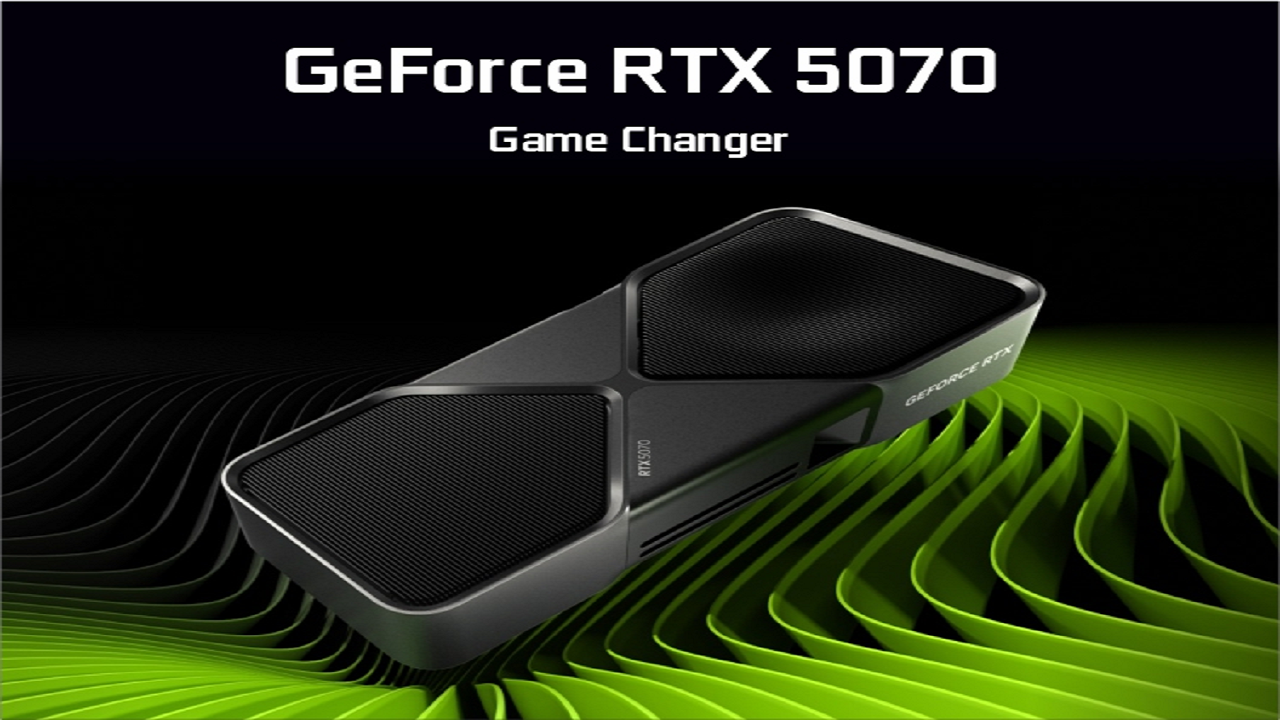
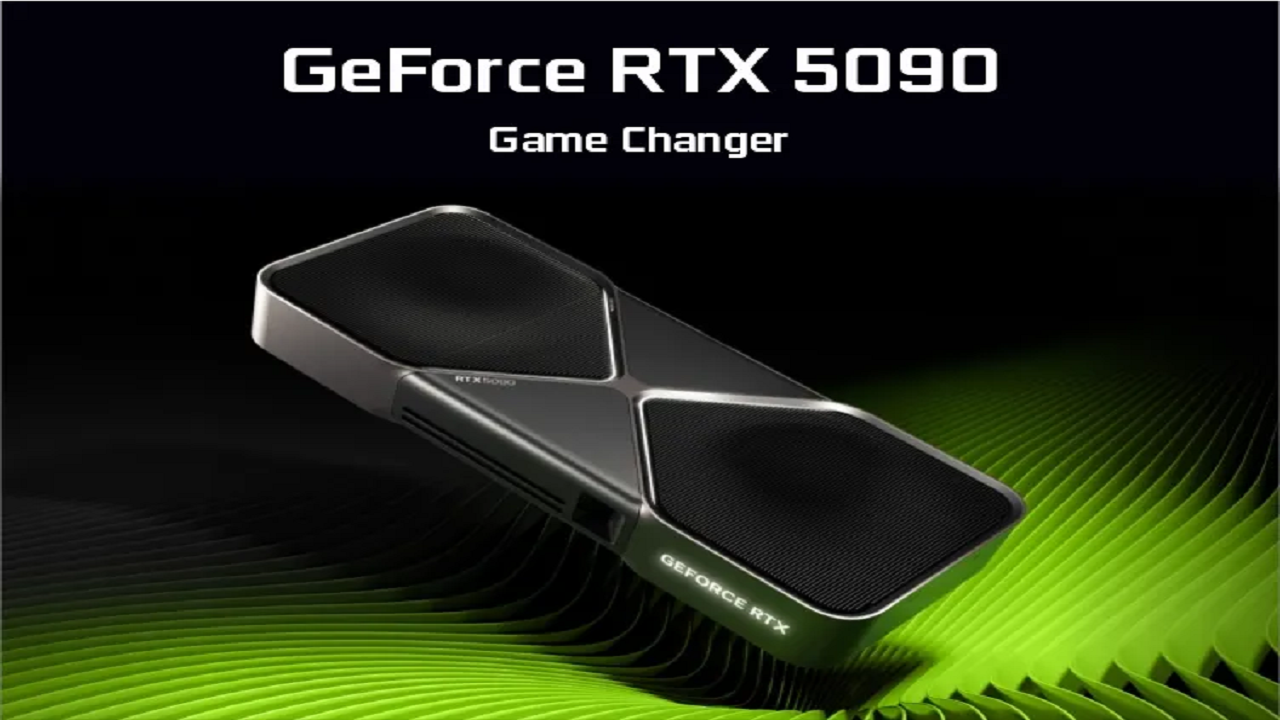
second section half completed

diff --git a/style.css b/style.css
@@ -151,14 +151,11 @@ header{
     margin-top:1.5rem;
     margin-left: 2rem;
 }
-.image{
-    width: 100%;
-    max-width: 250px;
-    height: auto;
-}
-.rtx-5090{
-    max-width: 50rem;
-    height: auto;
+.Main-sub-headings{
+    display: flex;
+    flex-wrap: wrap;
+    justify-content: flex-end;
+    padding: 3rem;
 }
 .image{
     display: grid;
@@ -169,8 +166,8 @@ header{
 }
 .rtx-5090{
     width:100%;
-    max-width:500px;
-    aspect-ratio:1/1;
+    max-width:300px;
+    aspect-ratio:5/4;
     object-fit:cover;
     border-radius:25px;
 }

diff --git a/index.html b/index.html
@@ -68,6 +68,7 @@
                         <br><br><br>
                         <h1 class="Main-headings">THE BEST GPU</h1>
                         <div class="Main-line-long"></div>
+                        <h1 class="Main-sub-headings">NVIDIA-GeForce-RTX-5090</h1>
                         <br>
                     </div>
                     <div class="image">